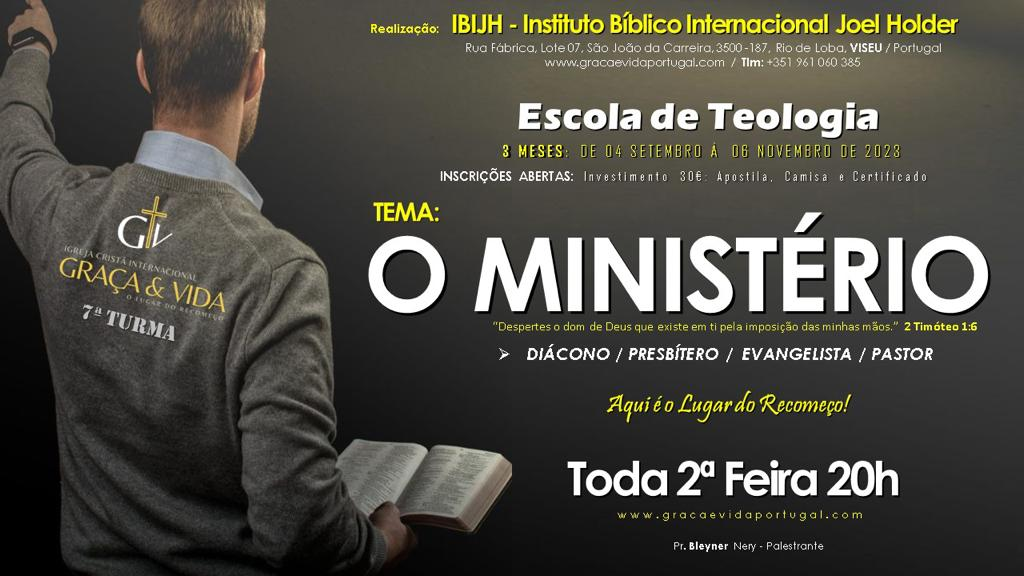
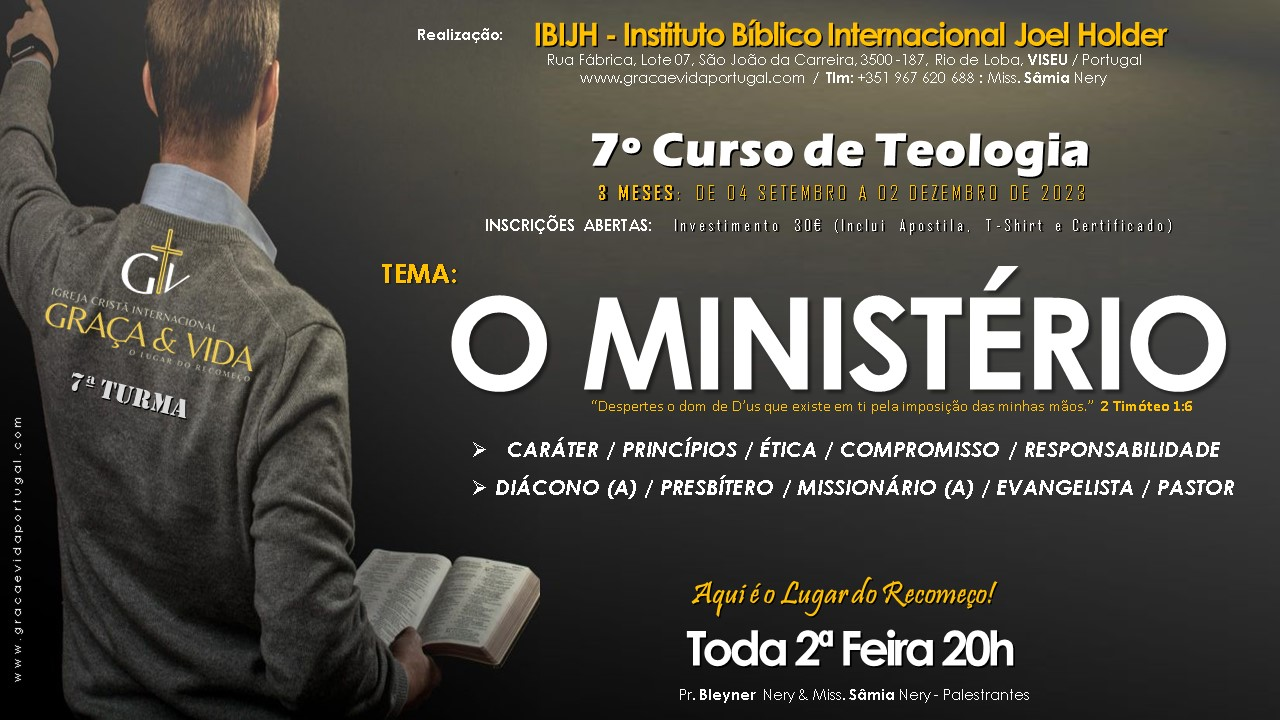
commit

Changed region(s): [[0.0, 0.0, 0.9688, 1.0], [0.3125, 0.0, 0.9375, 0.125], [0.5312, 0.7812, 0.875, 0.9688]]

diff --git a/index.html b/index.html
@@ -872,7 +872,7 @@
                  </article>
 
                  <article class="bgrid">
-                   <h5>De: 04 de Setembro Á 06 de Novembro, 2023</h5>
+                   <h5>De: 04 de Setembro Á 02 de Dezembro, 2023</h5>
                    <h3>ESCOLA DE TEOLOGIA</h3>            
                    <p>TEMA: O MINISTÉRIO</p>
                  </article>
